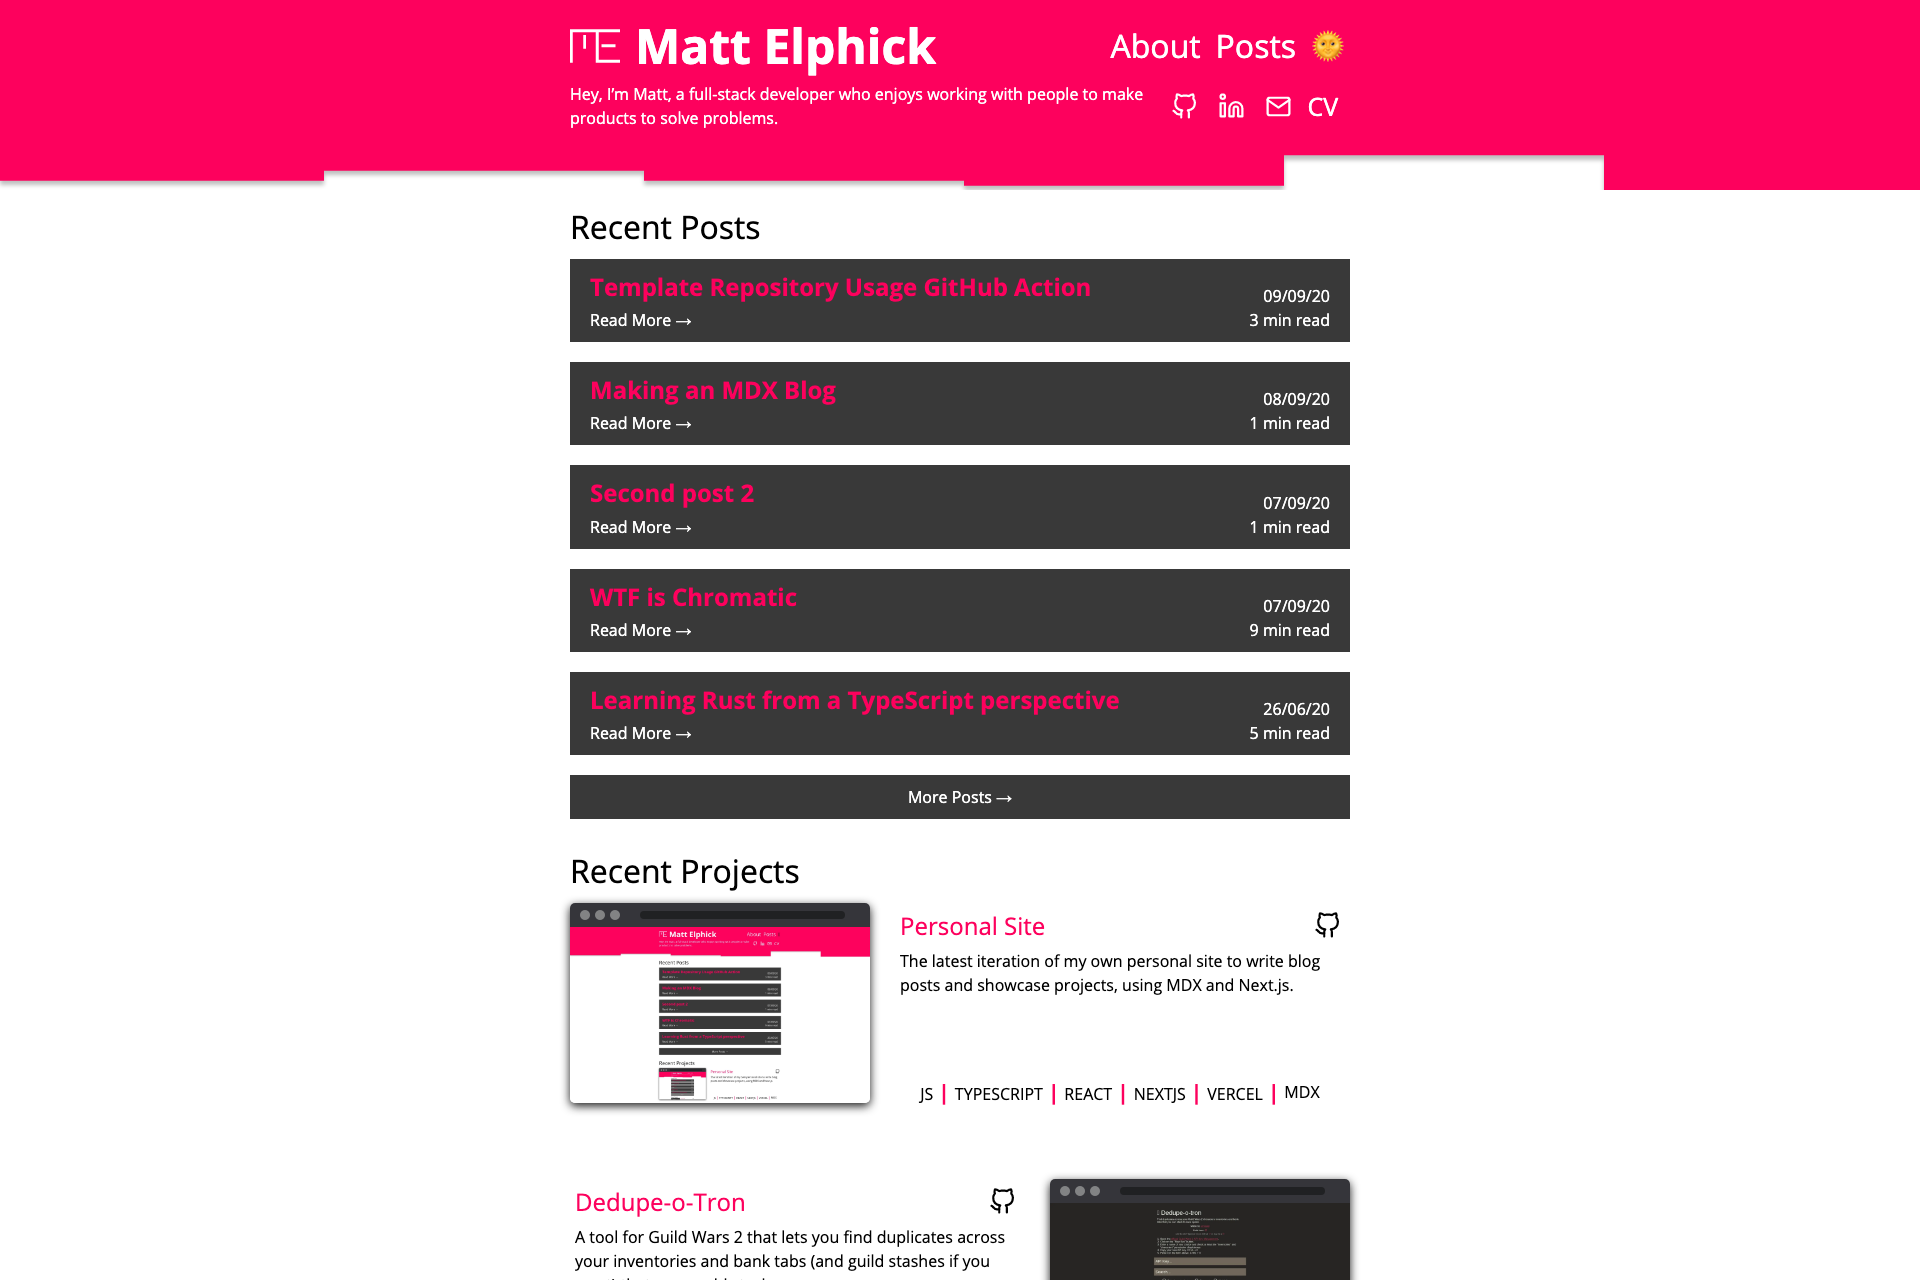
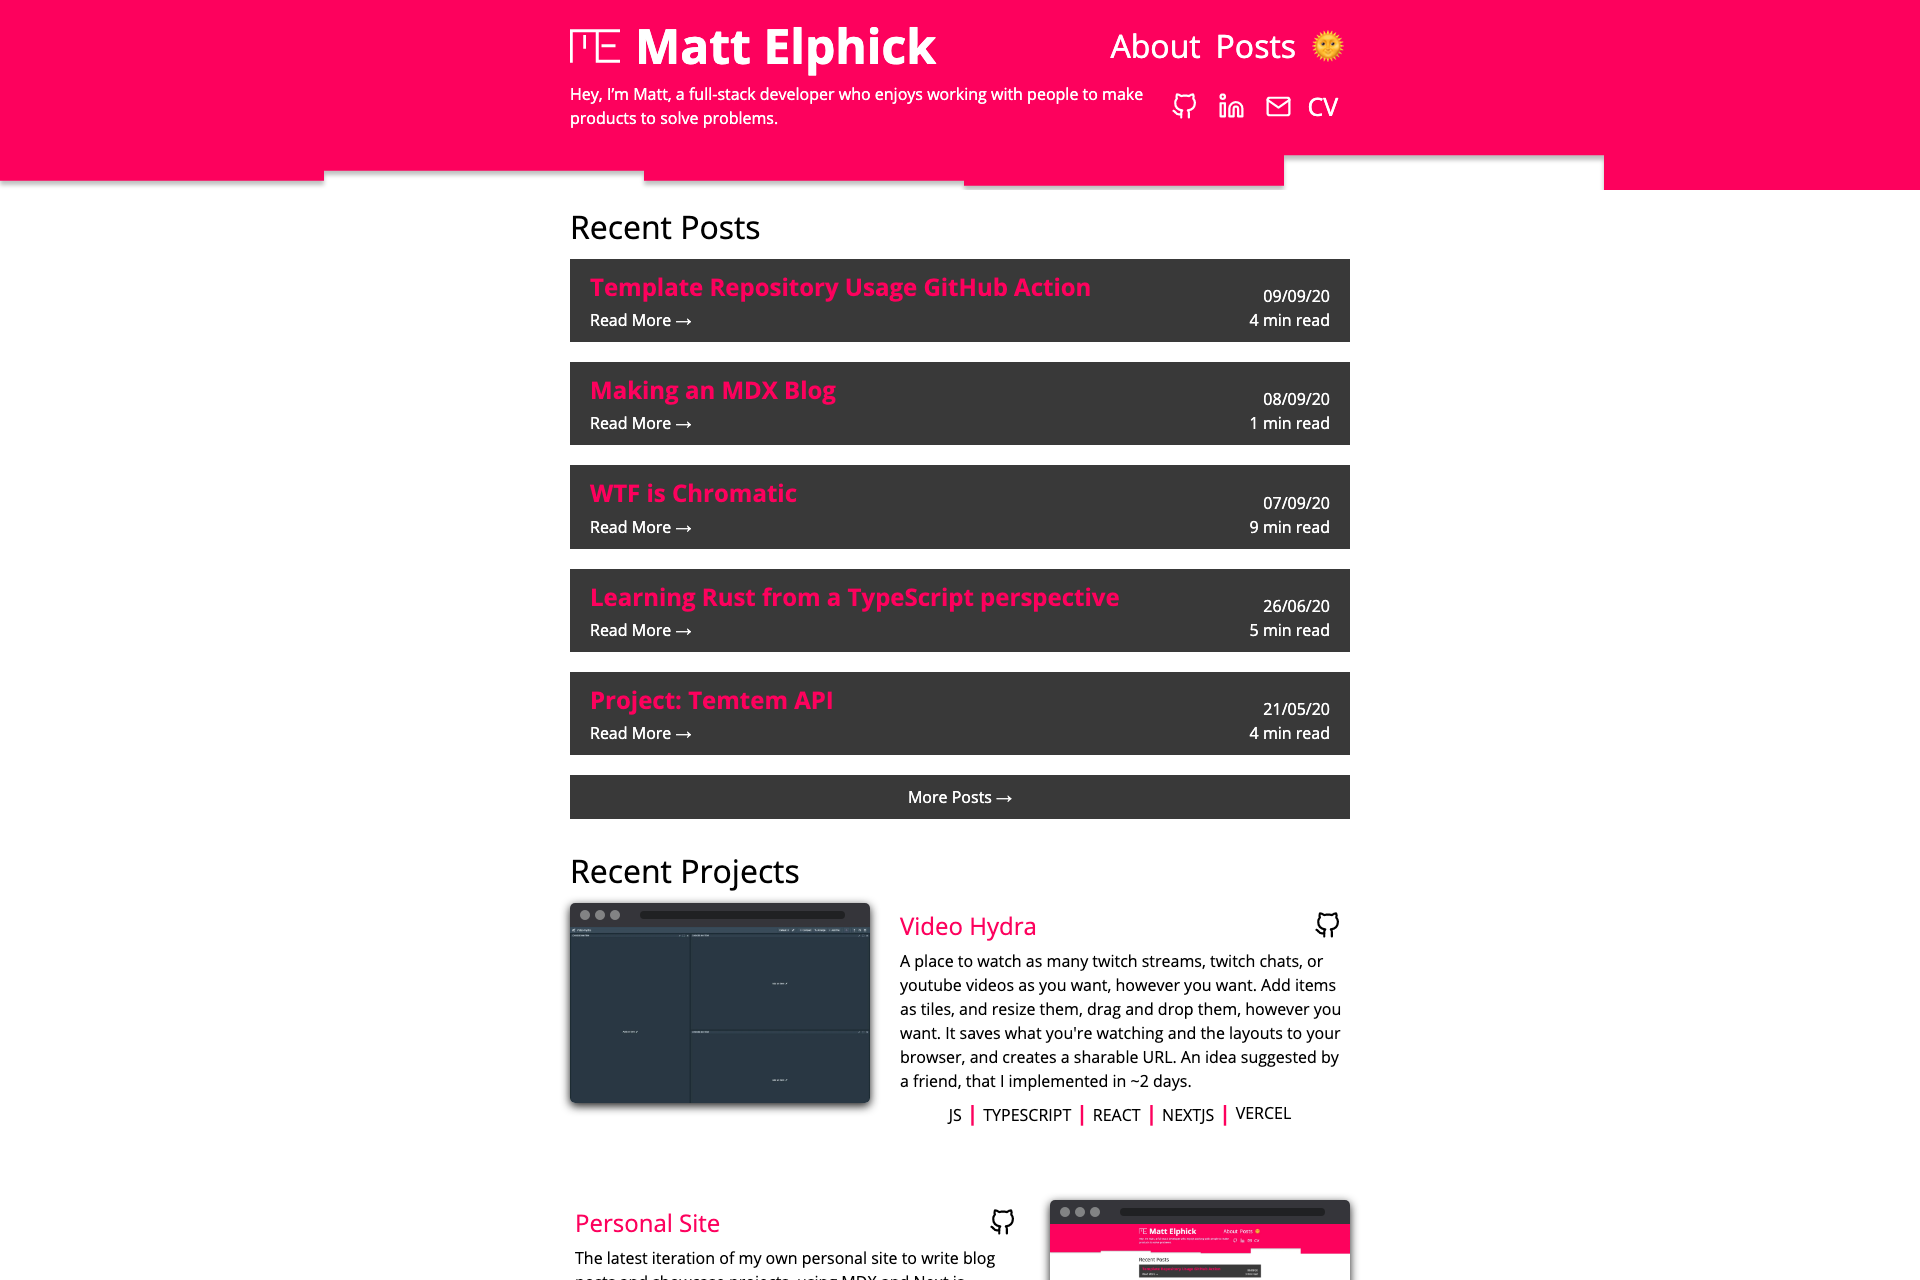
feat: 🎸 Add info on tilted and bopsy

diff --git a/data/projects.tsx b/data/projects.tsx
@@ -18,6 +18,45 @@ export interface Project {
 
 const projects: Project[] = [
   {
+    title: "Tilted",
+    url: "https://tilted.mael.tech",
+    github: "https://github.com/maael/tilted",
+    images: {
+      web: {
+        defaultImage: require("../assets/projects/tilted.png"),
+        defaultImageMime: "image/png",
+        webp: require("../assets/projects/tilted.png?webp"),
+      },
+    },
+    tech: ["js", "typescript", "react", "nextjs", "vercel"],
+    description: (
+      <>
+        Pretty much Heads Up! with lists of video games, movies, and TV shows.
+        Uses web APIs like vibration and gyro.
+      </>
+    ),
+  },
+  {
+    title: "Bopsy",
+    url: "https://bopsy.mael.tech",
+    github: "https://github.com/maael/bopsy",
+    images: {
+      web: {
+        defaultImage: require("../assets/projects/bopsy.png"),
+        defaultImageMime: "image/png",
+        webp: require("../assets/projects/bopsy.png?webp"),
+      },
+    },
+    tech: ["js", "typescript", "react", "nextjs", "vercel"],
+    description: (
+      <>
+        A game to see if you can recognise the theme music of video games,
+        movies, or TV shows - or at least what a youtube search for the theme
+        comes up with.
+      </>
+    ),
+  },
+  {
     title: "Video Hydra",
     url: "https://vidhydra.mael.tech",
     github: "https://github.com/maael/hydratwitch",

diff --git a/data/basicProjects.tsx b/data/basicProjects.tsx
@@ -6,6 +6,16 @@ export interface BasicProject {
 
 const projects: BasicProject[] = [
   {
+    title: "Tilted",
+    url: "https://tilted.mael.tech",
+    github: "https://github.com/maael/tilted",
+  },
+  {
+    title: "Bopsy",
+    url: "https://bopsy.mael.tech",
+    github: "https://github.com/maael/bopsy",
+  },
+  {
     title: "Video Hydra",
     url: "https://vidhydra.mael.tech",
     github: "https://github.com/maael/hydratwitch",
